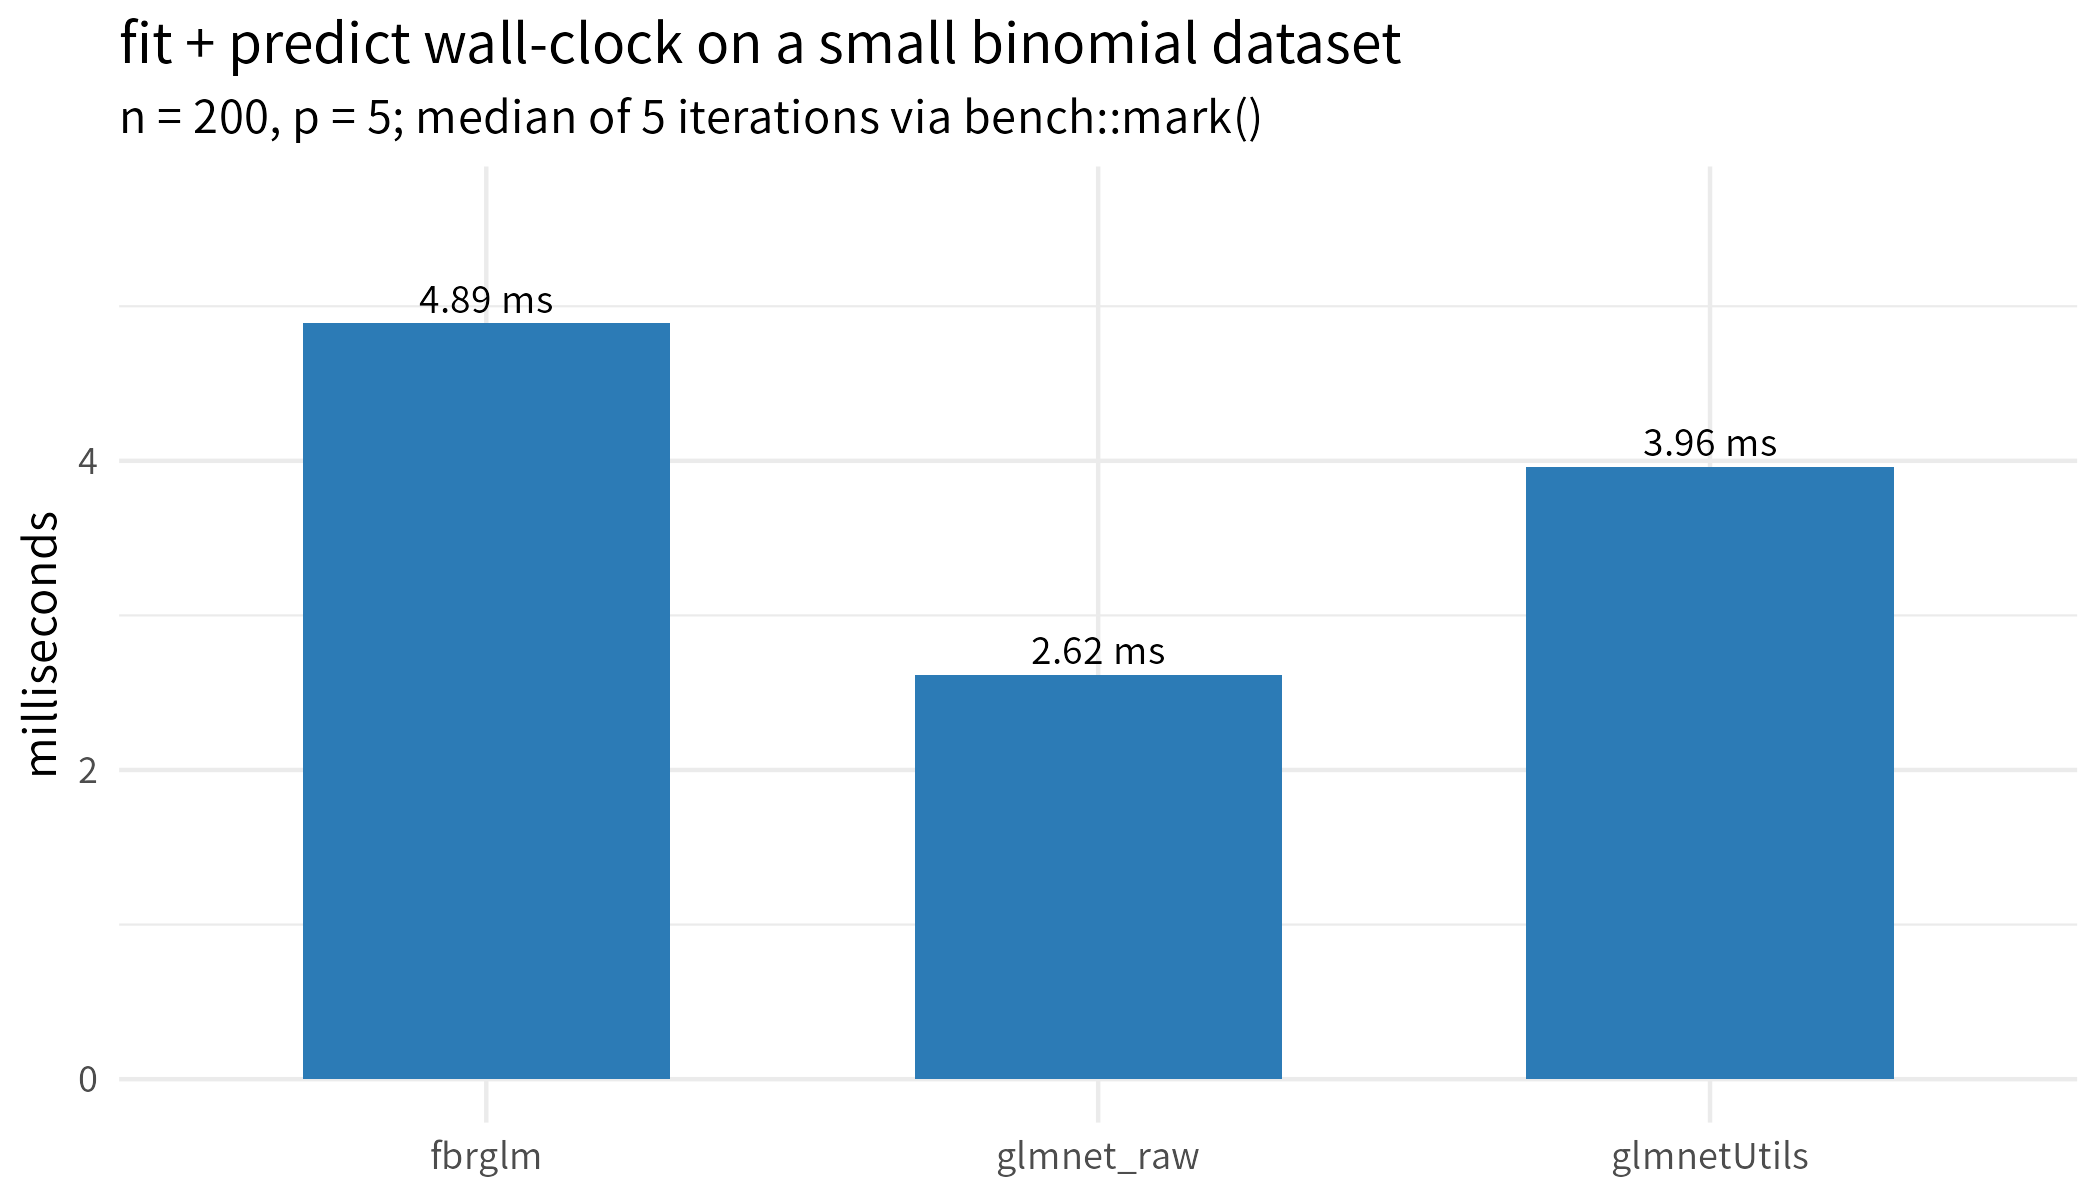
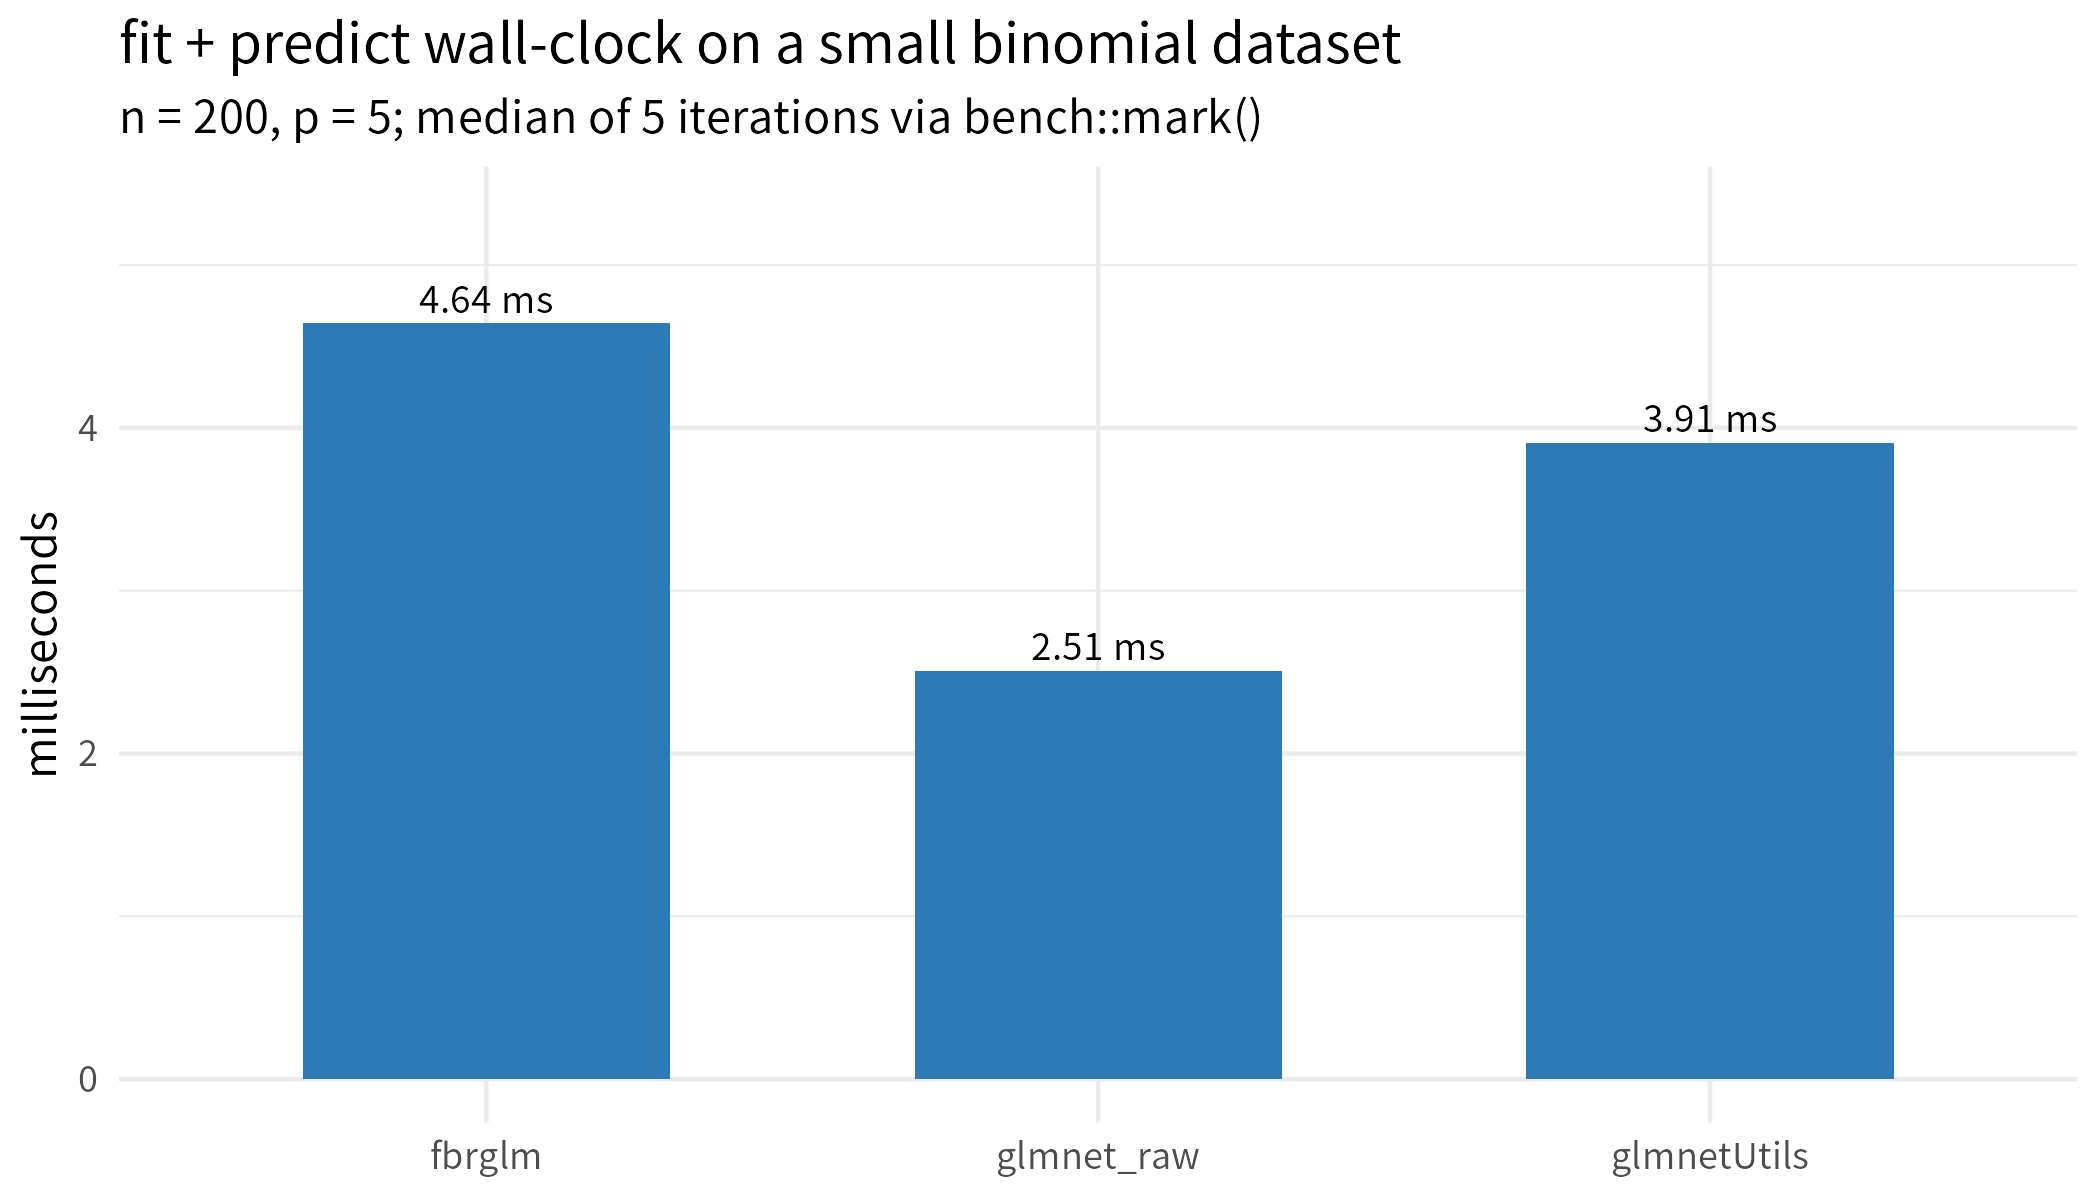
Document small benchmark results

Changed region(s): [[0.7119, 0.3392, 0.8976, 0.4008], [0.4643, 0.5242, 0.5881, 0.5858], [0.2167, 0.2467, 0.2476, 0.2775]]

diff --git a/README.md b/README.md
@@ -1,2 +1,140 @@
 # fbrglm-experiments
-Benchmarks of fbrglm and other related packages
+
+Reproducible experiments and benchmarks for
+[fbrglm](https://github.com/dsc-chiba-u/fbrglm) — a formula-based
+regularized GLM that wraps `glmnet` with a `glm()`-style interface.
+
+The fbrglm package itself lives in a separate repository. This
+repository hosts:
+
+- **smoke tests** — minimal correctness checks that verify every fbrglm
+  release against `glmnet`.
+- **small benchmarks** — first-cut comparisons against `glmnet` and
+  `glmnetUtils`, intended to be runnable in seconds and to stay
+  pinned in git.
+- **conda environment** — `environment.yml` defining the
+  `fbrglm-dev` conda env used throughout.
+
+Larger benchmarks (high-dimensional, slow CV, inference variants) will
+land here later; the small benchmarks are sized so they can be re-run
+on every fbrglm change without friction.
+
+## Setup
+
+```sh
+conda env create -f environment.yml          # first time only
+conda activate fbrglm-dev
+```
+
+`scripts/00_install_local_fbrglm.R` installs the local fbrglm from
+`/home/koki/dev/fbrglm`. It prefers `pak`, falls back to `devtools`,
+and falls back again to base `install.packages(repos = NULL, type = "source")`
+when the others can't satisfy a binary dependency.
+
+## Smoke tests
+
+`scripts/run_all_smoke.R` sources, in order:
+
+| # | script                                           | what it checks |
+|---|--------------------------------------------------|----------------|
+| 0 | `00_install_local_fbrglm.R`                      | install local fbrglm |
+| 1 | `01_smoke_basic.R`                               | gaussian / binomial / poisson basics |
+| 2 | `02_against_glmnet_fixed_lambda.R`               | `lambda = "fix"` matches direct `glmnet` (max abs diff < 1e-6) |
+| 3 | `03_predict_factor_newdata.R`                    | `predict()` survives missing factor levels in newdata |
+| 4 | `04_missing_report.R`                            | `nobs_info$n_total / n_dropped_missing / n_used` are right |
+| 5 | `05_lambda_cv_equivalence.R`                     | `lambda = "cv_min" / "cv_1se"` match `cv.glmnet` with fixed `foldid` |
+
+```sh
+Rscript scripts/run_all_smoke.R
+```
+
+## Small benchmarks
+
+`scripts/run_all_benchmarks_small.R` runs:
+
+- `scripts/10_benchmark_prediction_failures.R` — predict path resilience
+  to a train/test factor-level mismatch.
+- `scripts/11_benchmark_runtime_small.R` — wall-clock for fit+predict on
+  a small binomial dataset.
+
+```sh
+Rscript scripts/run_all_benchmarks_small.R
+Rscript scripts/20_plot_small_benchmarks.R
+```
+
+Outputs land under:
+
+- `results/summary/prediction_failures_small.csv`
+- `results/summary/runtime_small.csv`
+- `results/figures/prediction_failures_small.png`
+- `results/figures/runtime_small.png`
+
+### Prediction-failure benchmark
+
+Train has factor `g` with levels `A/B/C/D`; test has `g` with **levels
+narrowed to `A/B`** (the factor object itself has only two levels, not
+just two observed values). This is the canonical setup where a naive
+`glmnet` caller gets bitten.
+
+| method               | success | train_ncol | test_ncol | note |
+|----------------------|---------|-----------:|----------:|------|
+| `fbrglm`             | ✅      | 5          | 5         | auto: `xlevels` stored on the fit object |
+| `glmnet_raw_naive`   | ❌      | 5          | 3         | manual: `model.matrix(train)` vs `model.matrix(test)` built separately |
+| `glmnet_raw_safe`    | ✅      | 5          | 5         | manual: `relevel(test$g, levels = levels(train$g))` before `model.matrix` |
+| `glmnetUtils`        | ❌      | 6          | NA        | formula interface, but failed under narrowed test factor levels |
+
+Both failure rows produce a `glmnet` runtime error of the form
+`The number of variables in newx must be N`.
+
+![prediction-failure figure](results/figures/prediction_failures_small.png)
+
+The takeaway: fbrglm's `predict()` is the only formula-driven path that
+handles narrowed test factors without the user having to manually
+re-level. `glmnet_raw_safe` works but moves the bookkeeping to the
+caller, which is exactly the friction fbrglm is meant to remove.
+
+### Runtime benchmark
+
+Small binomial dataset (n = 200, p = 5, single λ = 0.05), median of 5
+iterations from `bench::mark()`.
+
+| method        | median runtime |
+|---------------|----------------|
+| `fbrglm`      | ~ 4.9 ms       |
+| `glmnet_raw`  | ~ 2.5 ms       |
+| `glmnetUtils` | ~ 4.0 ms       |
+
+fbrglm pays a small constant cost over raw `glmnet` for its formula /
+factor / xlevels bookkeeping and lands in the same neighbourhood as
+`glmnetUtils`. The overhead is what buys you the prediction-path
+robustness above.
+
+![runtime figure](results/figures/runtime_small.png)
+
+Numbers are illustrative — the dataset is intentionally tiny, and a
+larger benchmark suite will follow.
+
+## Layout
+
+```
+R/                          # shared helpers
+  data_generators.R         #   data factories
+  benchmark_helpers.R       #   safe_run(), save_result_csv()
+scripts/
+  00_install_local_fbrglm.R
+  01_smoke_basic.R
+  02_against_glmnet_fixed_lambda.R
+  03_predict_factor_newdata.R
+  04_missing_report.R
+  05_lambda_cv_equivalence.R
+  10_benchmark_prediction_failures.R
+  11_benchmark_runtime_small.R
+  20_plot_small_benchmarks.R
+  run_all_smoke.R
+  run_all_benchmarks_small.R
+results/
+  summary/                  # CSVs (tracked in git)
+  figures/                  # PNGs   (tracked in git)
+  raw/                      # raw per-run artifacts (currently empty)
+environment.yml             # conda env spec for fbrglm-dev
+```
